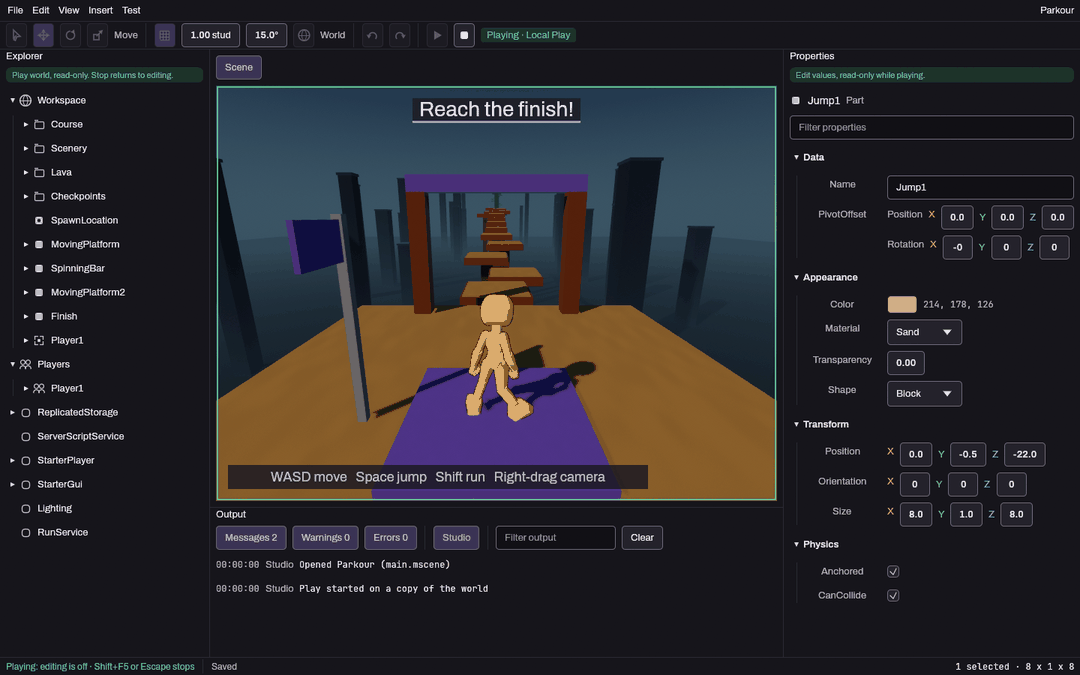
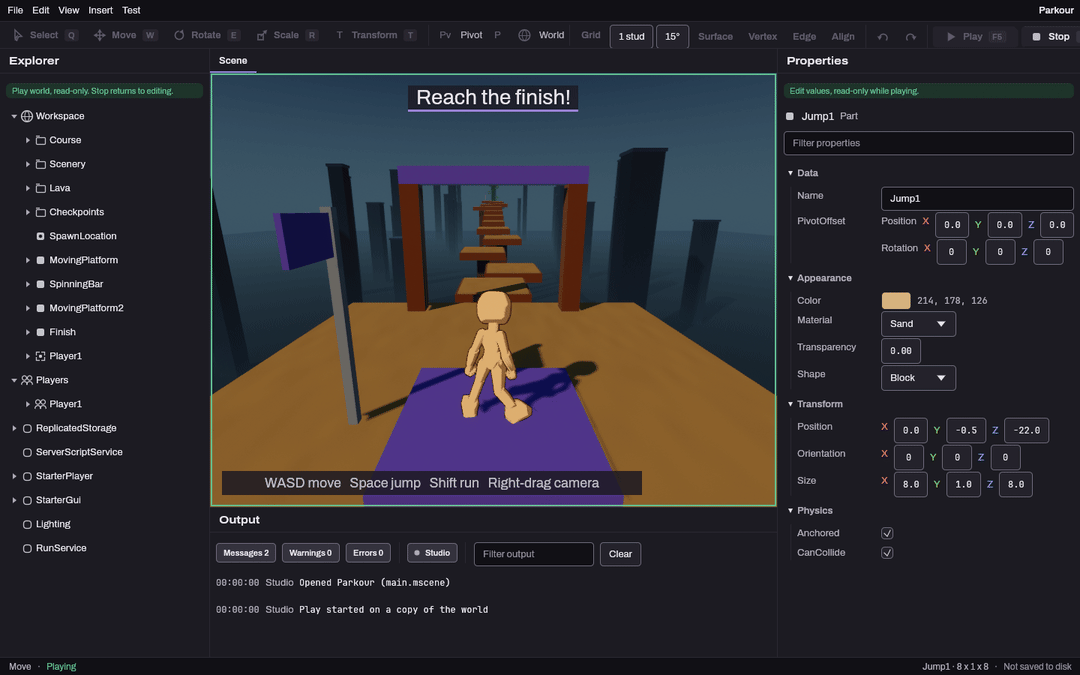
Drop the toolbar Playing chip; share the Explorer caret with the play tree
#367's status bar shows the play state and the toolbar has no room left
after #337. The play tree draws the edit tree's caret and layout.
Screenshot refreshed.

diff --git a/crates/metallic_studio/src/explorer.rs b/crates/metallic_studio/src/explorer.rs
@@ -211,24 +211,7 @@ impl Explorer {
         let caret = egui::Rect::from_center_size(egui::pos2(x0 + 7.0, cy), Vec2::splat(14.0));
         if row.has_children {
             let open = self.expanded.contains(&row.id) || !self.filter.is_empty();
-            let pts = if open {
-                vec![
-                    egui::pos2(caret.left() + 3.0, cy - 2.0),
-                    egui::pos2(caret.right() - 3.0, cy - 2.0),
-                    egui::pos2(caret.center().x, cy + 3.0),
-                ]
-            } else {
-                vec![
-                    egui::pos2(caret.center().x - 2.0, caret.top() + 3.0),
-                    egui::pos2(caret.center().x + 3.0, cy),
-                    egui::pos2(caret.center().x - 2.0, caret.bottom() - 3.0),
-                ]
-            };
-            painter.add(egui::Shape::convex_polygon(
-                pts,
-                ui_tokens().text_dim,
-                Stroke::NONE,
-            ));
+            paint_caret(&painter, caret, open);
         }
         let class = state.world.class_name(row.id).unwrap_or("?");
         crate::icons::paint_class(
@@ -439,6 +422,29 @@ fn meta_text(state: &EditorState, id: InstanceId, class: &str) -> Option<String>
     }
 }
 
+/// The open / closed caret of a tree row with children.
+fn paint_caret(painter: &egui::Painter, caret: egui::Rect, open: bool) {
+    let (c, cy) = (caret.center().x, caret.center().y);
+    let pts = if open {
+        [
+            egui::pos2(caret.left() + 3.0, cy - 2.0),
+            egui::pos2(caret.right() - 3.0, cy - 2.0),
+            egui::pos2(c, cy + 3.0),
+        ]
+    } else {
+        [
+            egui::pos2(c - 2.0, caret.top() + 3.0),
+            egui::pos2(c + 3.0, cy),
+            egui::pos2(c - 2.0, caret.bottom() - 3.0),
+        ]
+    };
+    painter.add(egui::Shape::convex_polygon(
+        pts.to_vec(),
+        ui_tokens().text_dim,
+        Stroke::NONE,
+    ));
+}
+
 /// The play world as a read-only tree, shown in place of the Explorer while a session runs.
 ///
 /// Rows open and close (Workspace and Players start open) but nothing can be selected, renamed,
@@ -512,29 +518,24 @@ impl PlayTree {
                         Vec2::new(ui.available_width(), t.row_height),
                         Sense::hover(),
                     );
-                    let x = rect.min.x + row.depth as f32 * t.indent;
-                    let arrow = egui::Rect::from_min_size(
-                        egui::pos2(x, rect.min.y),
-                        Vec2::splat(t.row_height),
-                    );
+                    // Same layout as the edit tree's rows.
+                    let x0 = rect.min.x + 4.0 + row.depth as f32 * t.indent;
+                    let cy = rect.center().y;
+                    let caret =
+                        egui::Rect::from_center_size(egui::pos2(x0 + 7.0, cy), Vec2::splat(14.0));
                     if row.has_children {
                         let resp = ui.interact(
-                            arrow,
-                            ui.scope_id().with(("play-arrow", row.id)),
+                            caret,
+                            ui.scope_id().with(("play-caret", row.id)),
                             Sense::click(),
                         );
-                        let open = if self.expanded.contains(&row.id) {
-                            1.0
-                        } else {
-                            0.0
-                        };
-                        egui::collapsing_header::paint_default_icon(ui, open, &resp);
+                        paint_caret(ui.painter(), caret, self.expanded.contains(&row.id));
                         if resp.clicked() {
                             toggle = Some(row.id);
                         }
                     }
-                    let icon = egui::Rect::from_min_size(
-                        egui::pos2(arrow.max.x, rect.center().y - t.icon_size / 2.0),
+                    let icon = egui::Rect::from_center_size(
+                        egui::pos2(x0 + 24.0, cy),
                         Vec2::splat(t.icon_size),
                     );
                     let class = world.class_name(row.id).unwrap_or("?");
@@ -544,7 +545,7 @@ impl PlayTree {
                         _ => class,
                     };
                     ui.painter().text(
-                        egui::pos2(icon.max.x + 6.0, rect.center().y),
+                        egui::pos2(x0 + 36.0, cy),
                         egui::Align2::LEFT_CENTER,
                         name,
                         t.body(),

diff --git a/crates/metallic_studio/src/editor_ui.rs b/crates/metallic_studio/src/editor_ui.rs
@@ -10,8 +10,8 @@
 //! **While playing** Studio's keys are dispatched first each frame (Global and Play contexts:
 //! Esc and Shift+F5 stop; a disabled action leaves its key alone), then the rest of the keyboard,
 //! Tab, Space and Enter included, and the mouse over the viewport go to the game
-//! ([`PlayInput`]), then the session advances and the viewport draws it. The toolbar shows a
-//! "Playing" chip and the status bar the play state, Explorer shows the play world read-only,
+//! ([`PlayInput`]), then the session advances and the viewport draws it. #367's status bar shows
+//! "Playing" in `success`, the viewport has a `success` frame, Explorer shows the play world read-only,
 //! and Properties, Insert, the script editor and every editing action are off until Stop.
 use eframe::egui::{self, Frame, Margin, RichText};
 use eframe::egui_wgpu;
@@ -283,18 +283,6 @@ impl EditorUi {
         }
     }
 
-    /// "Shift+F5 or Escape", from the keymap (built only when the chip's tooltip shows).
-    fn stop_keys(&self) -> String {
-        let keys: Vec<String> = self
-            .keymap
-            .bindings()
-            .iter()
-            .filter(|b| b.action == "play.stop")
-            .map(|b| b.chord.label())
-            .collect();
-        keys.join(" or ")
-    }
-
     fn requests(&mut self, ctx: &egui::Context) {
         for r in self.state.take_requests() {
             match r {
@@ -509,11 +497,6 @@ impl EditorUi {
                     ui.separator();
                     self.actions
                         .toolbar(ui, ToolbarGroup::Play, &mut self.state, &self.keymap);
-                    if playing {
-                        playing_chip(ui, "Playing").on_hover_ui(|ui| {
-                            ui.label(format!("Editing is off. {} stops.", self.stop_keys()));
-                        });
-                    }
                 });
             });
 
@@ -705,21 +688,6 @@ impl EditorUi {
         }
         exit
     }
-}
-
-/// The toolbar's "Playing" chip: `success` text on a `success-bg` plate.
-fn playing_chip(ui: &mut egui::Ui, text: &str) -> egui::Response {
-    let galley =
-        ui.painter()
-            .layout_no_wrap(text.to_string(), ui_tokens().body(), theme::success());
-    let pad = egui::vec2(8.0, 3.0);
-    let (rect, response) = ui.allocate_exact_size(galley.size() + pad * 2.0, egui::Sense::hover());
-    Plate::raised()
-        .fill(theme::success_bg())
-        .paint(ui.painter(), rect);
-    ui.painter()
-        .galley(rect.min + pad, galley, theme::success());
-    response
 }
 
 /// A full-width note at the top of a panel while playing.

diff --git a/docs/agents/11-play-stop.md b/docs/agents/11-play-stop.md
@@ -36,12 +36,12 @@ the Output tag is now `play` (`PLAY_TAG`), and the session owns an `InputRuntime
   `raw_input_hook` and go to the game, so egui cannot move focus or press a focused button. With the unsaved-changes
   prompt open, Esc closes the prompt and game input is released.
 - Exposure adaptation resets (`Renderer::reset_exposure`) on the first play frame and after Stop.
-- No per-frame allocation in the play path: input buffers are reused, key contexts are an array, the chip text is
-  static, `PlayStatus` text is `Cow<'static, str>`.
+- No per-frame allocation in the play path: input buffers are reused, key contexts are an array, `PlayStatus` text is `Cow<'static, str>`.
 - Play is requested with `UiRequest::StartPlay(id)`: open script tabs are committed, a Properties gesture is recorded
   and a gizmo drag cancelled before the copy is taken; then the Scene tab shows and widget focus is dropped.
-- Toolbar chip "Playing" (tooltip names the stop keys), `theme::success` on a `success-bg` plate (`widgets::Plate`);
-  #367's status bar shows the session status ("Playing"). No raw colours.
+- Playing state: #367's status bar shows the session status ("Playing", `theme::success`), the viewport has a
+  `success` frame, and Explorer and Properties carry `success-bg` banners (`widgets::Plate`). No raw colours. The
+  earlier toolbar chip and status strip are gone: the toolbar has no room left after #337, and #367 covers it.
 - Failure: a `Game::start` error goes to Output ("Could not start: ...") and Studio stays in edit mode, with a status
   note. A script that errors while loading does not fail the start (engine rule: other scripts keep running); its
   error goes to Output with the `play` tag.

diff --git a/ARCHITECTURE.md b/ARCHITECTURE.md
@@ -178,8 +178,8 @@ apps.
   `EditorUi::raw_input_hook` gives Tab, Space and Enter to the game before egui can move focus or press a widget).
   While playing, `EditorState::apply/record/undo/redo` refuse, every action outside `actions::PLAY_SAFE` (Play,
   Stop, Save, Settings) and its accessory is disabled, gizmos, body drags and the editable drag readout are off,
-  Properties and the script editor are read-only, the toolbar shows a "Playing" chip (theme `success` tokens) and
-  the status bar the session's `PlayStatus`. Esc with the unsaved-changes prompt open answers the prompt. Exposure
+  Properties and the script editor are read-only, the status bar shows the session's `PlayStatus` ("Playing", theme
+  `success`) and the viewport a `success` frame. Esc with the unsaved-changes prompt open answers the prompt. Exposure
   adaptation resets when Play starts and after Stop. Play is asked for with `UiRequest::StartPlay`, so open script
   tabs and gestures commit first. Stop (`EditorState::stop_play`) drops the session; a start error goes to Output
   and Studio stays in edit mode.
